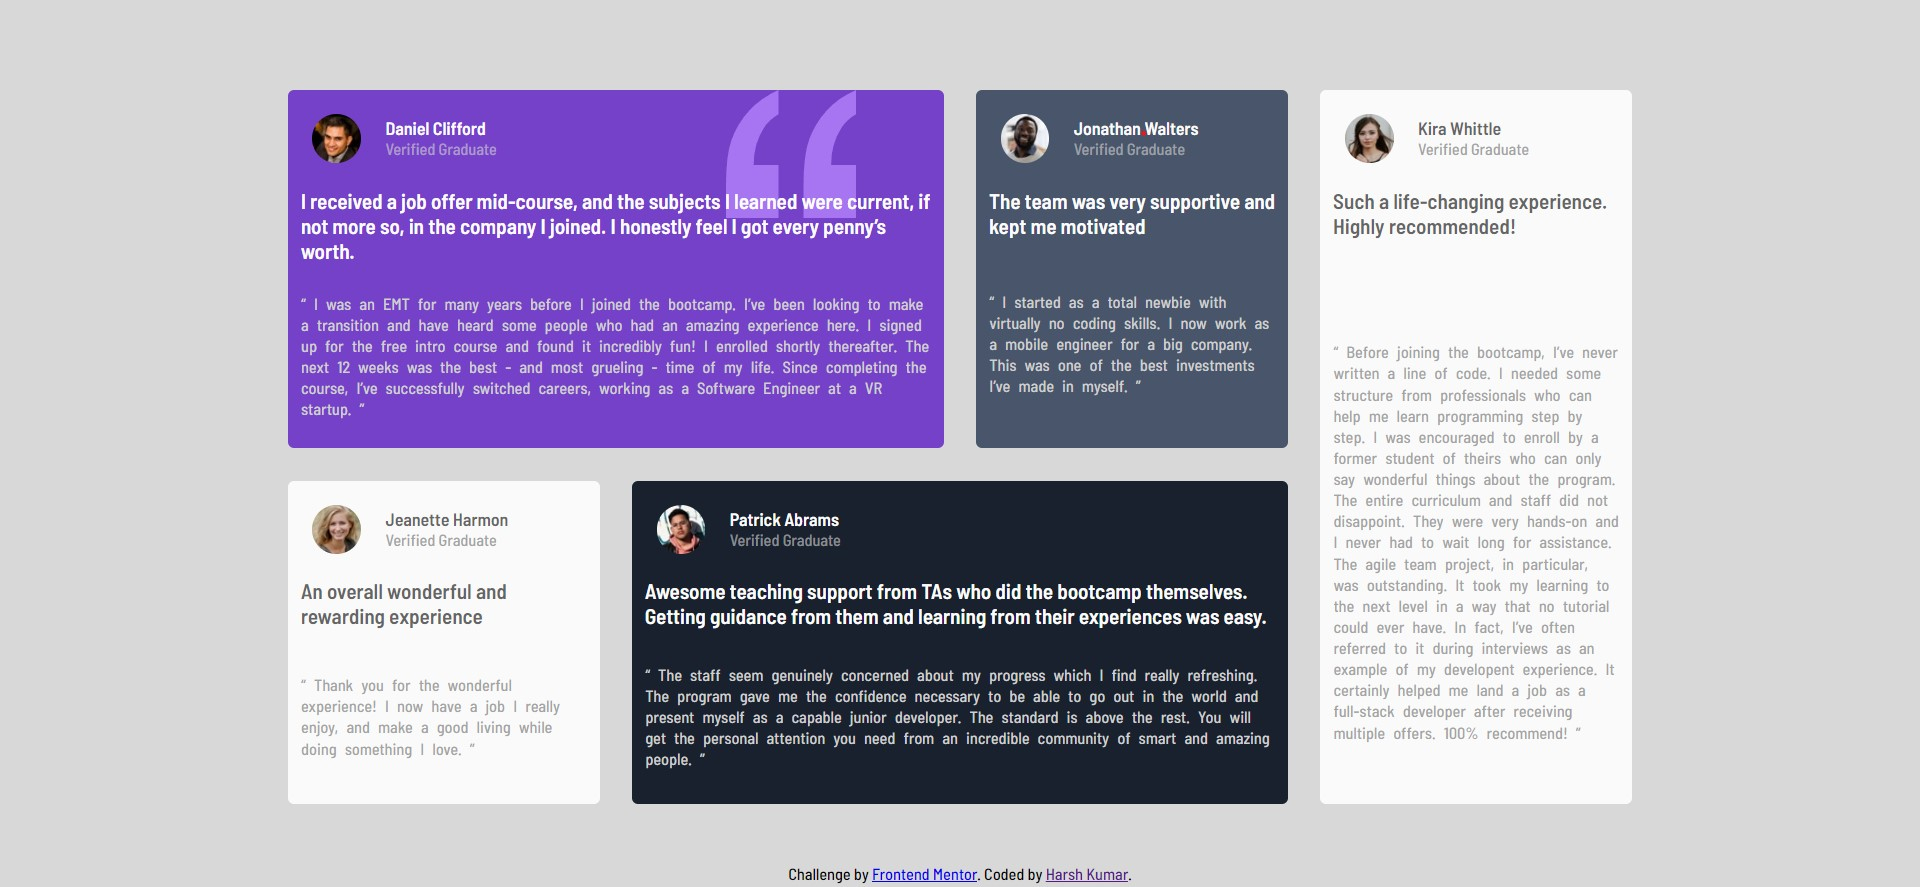
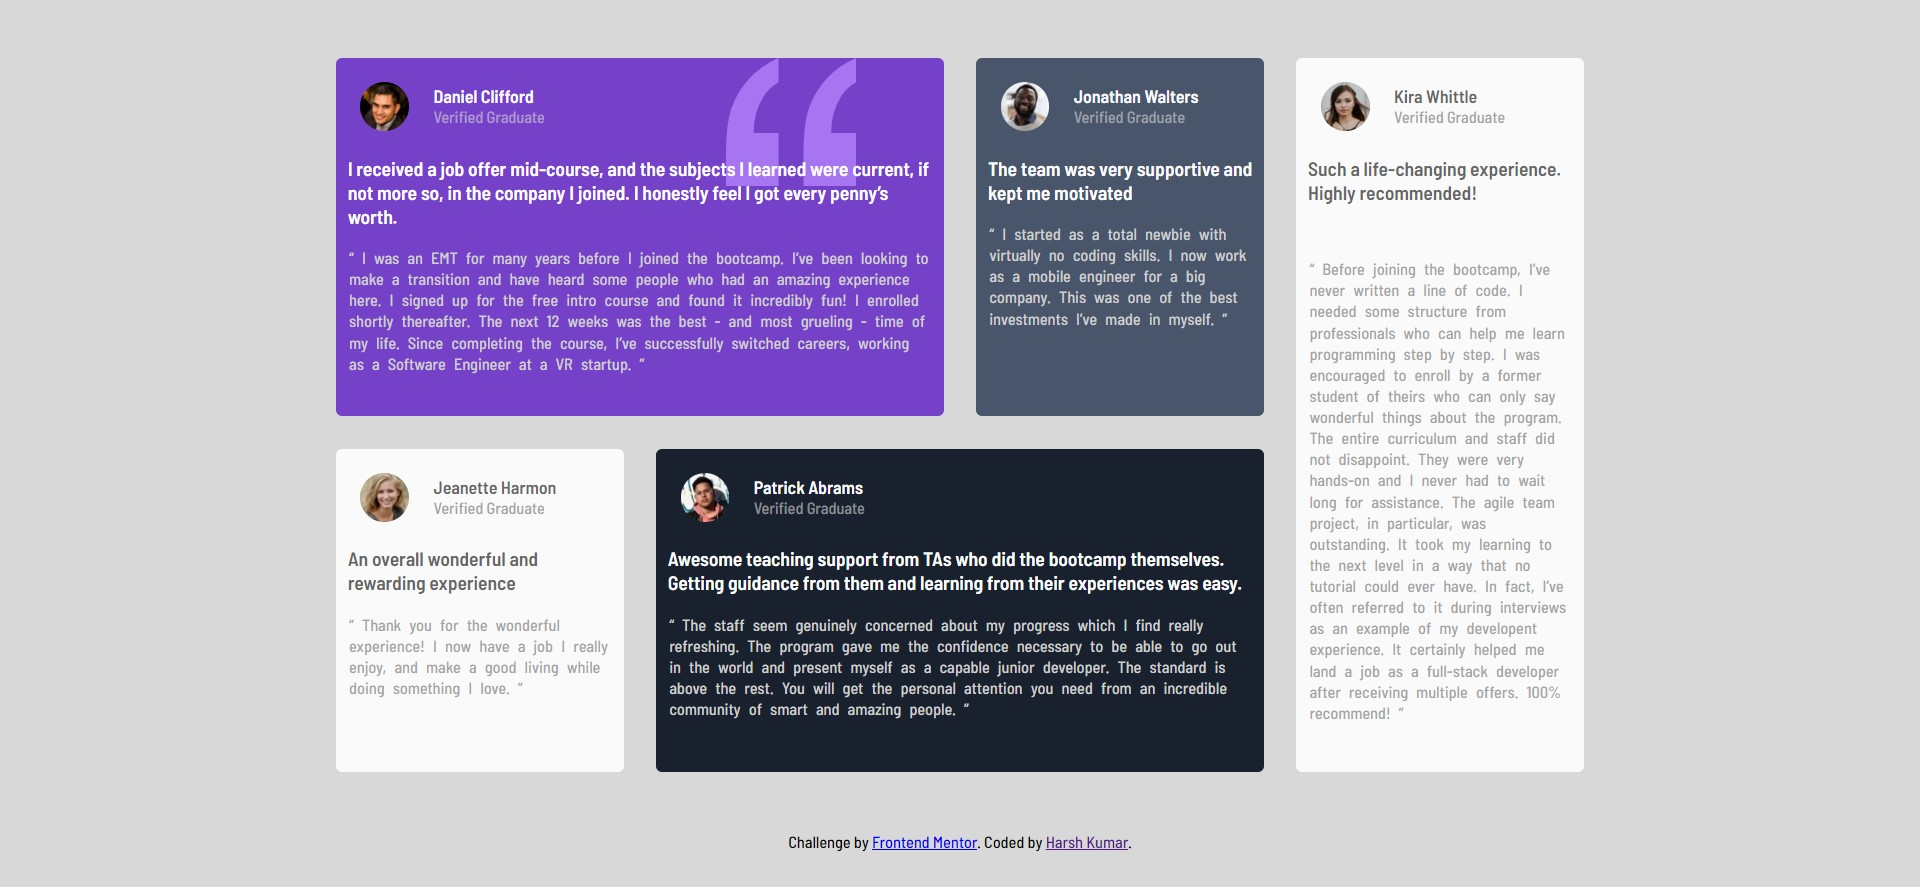
project 12 update

Changed region(s): [[0.125, 0.0609, 0.875, 0.9132], [0.4062, 0.9436, 0.5938, 1.0]]

diff --git a/testimonials-grid-section-main/index.css b/testimonials-grid-section-main/index.css
@@ -6,21 +6,22 @@ body {
   font-size: 13px;
   font-family: "Barlow Semi Condensed", sans-serif;
   display: flex;
+  min-height: 100vh;
   flex-direction: column;
   gap: 3rem;
   background-color: hsla(0, 0%, 81%, 0.797);
   align-items: center;
 }
 main {
-  max-width: 70vw;
+  max-width: 65vw;
   display: grid;
+  min-height: 80vh;
 }
 #card-body {
-    margin-top: 1.5rem;
-  min-height:80vh;
   grid-template-columns: repeat(4,0.8fr);
   grid-template-rows: 1fr 0.9fr;
   grid-gap: 2em;
+  justify-content: center;
 }
 .card {
     display: grid;
@@ -66,19 +67,16 @@ main {
   grid-column: span 2;
   color: hsl(0, 0%, 99%);
   font-weight: bold;
-  font-size:1.3em;
-  margin-left:0.6em;
-  margin-right: 0.6em;
-  margin-bottom: 0.5em;
-
+  font-size:1.2em;
+  margin: 0 0.6em 1em 0.6em;
 }
 .qualification {
   grid-column: 2/-1;
   color: hsla(0, 0%, 81%, 0.611);
 }
 .long-txt {
-  align-self: center;
-  margin: 0 0.8em 0.6em 0.8em;
+  align-self: start;
+  margin: 0 0.8em 1.5em 0.8em;
   grid-column: span 2;
   color: hsl(0, 0%, 81%);
   line-height: 1.3em;
@@ -90,7 +88,10 @@ main {
 .dgr{
     color:rgba(84, 84, 84, 0.896);
 }
-@media only screen and (max-width: 370px) {
+@media only screen and (max-width: 450px) {
+  main{
+    min-width:70vw;
+  }
   #card-body {
     display: flex;
     flex-direction: column;
